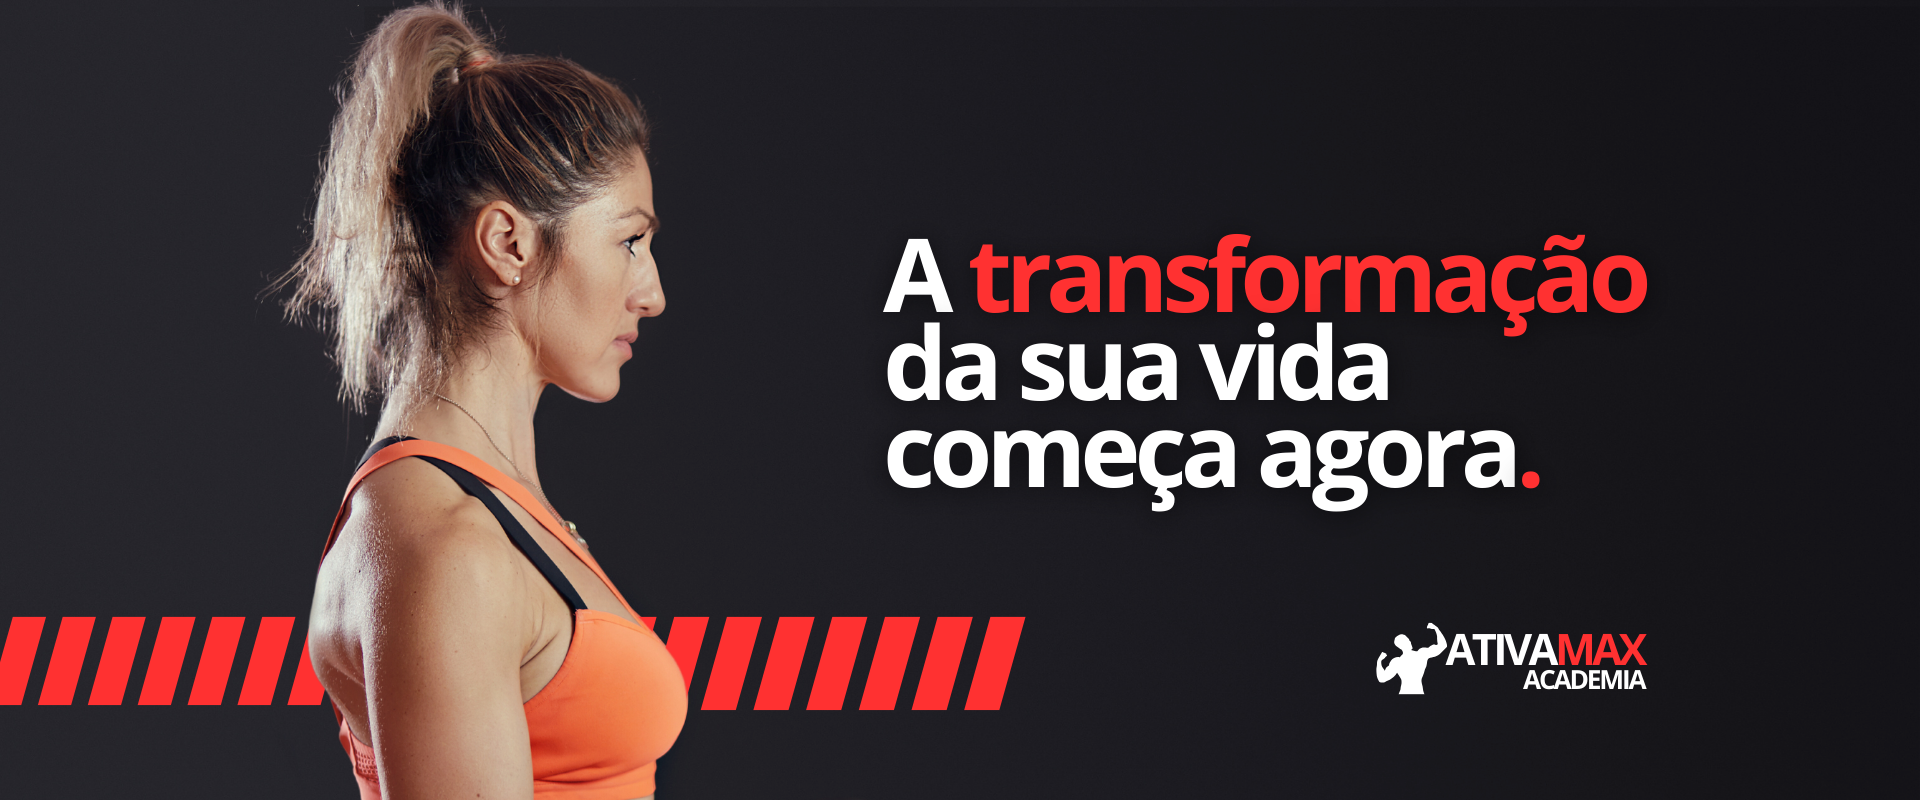
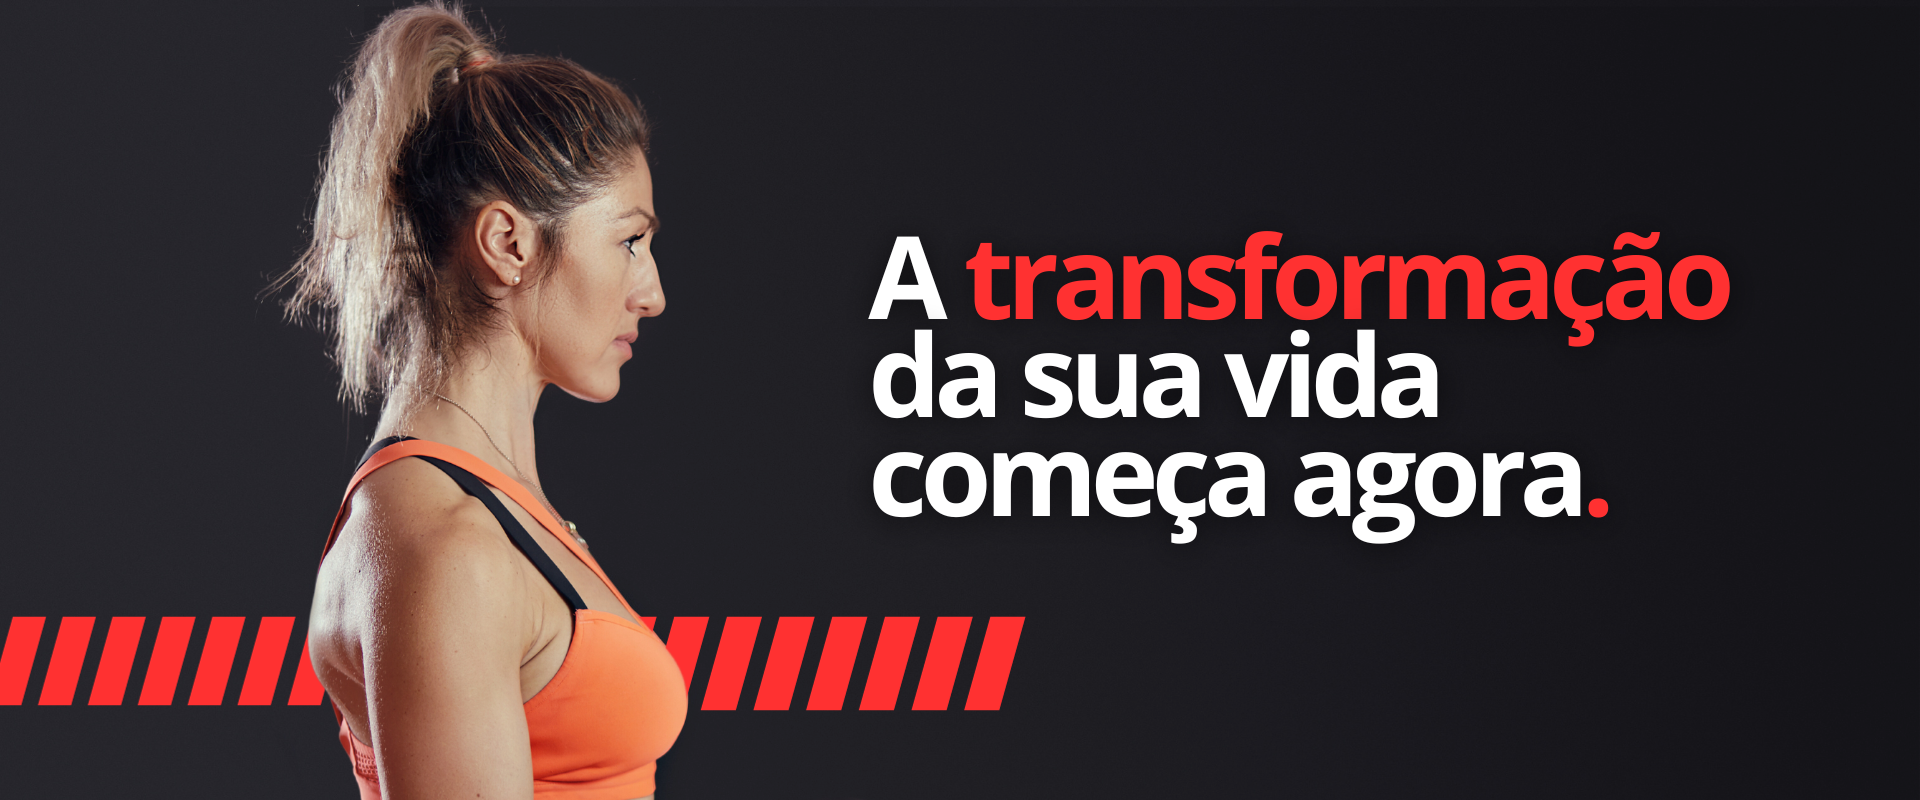
header finalizado

Changed region(s): [[0.4375, 0.2812, 0.9062, 0.6875], [0.7188, 0.7812, 0.875, 0.875]]

diff --git a/assets/css/style.css b/assets/css/style.css
@@ -17,23 +17,14 @@ body {
 
 /* Header */
 
-.back-header img{
-    position: absolute;
-    top: 0;
-    left: 0;
-    z-index: -1;
-    width: 100%;
-    height: 100vh;
-    object-fit: cover;
-}
-
 header {
+    position: fixed;
     display: flex;
     justify-content: center;
     width: 100vw;
-    height: 80px;
+    height: 70px;
     background-color: rgba(0, 0, 0, 0.3);
-    backdrop-filter: blur(5px);
+    backdrop-filter: blur(8px);
 }
 
 .container-header {
@@ -97,5 +88,45 @@ header {
 }
 
 /* Main */
+.banner {
+    display: flex;
+    justify-content: center;
+    width: 100vw;
+    background-image: linear-gradient(90deg, #26252bf1, #141418, #141418);
+}
 
+.banner img {
+    width: 100vw;
+    height: 100vh;
+    object-fit: cover;
+    max-height: 740px;
+    max-width: 1800px;
+}
+
+.container {
+    margin: auto;
+    width: 800px;
+}
+
+.titulo-atividades {
+    display: flex;
+    position: relative;
+    justify-content: center;
+    padding: 80px 0;
+}
+
+.titulo-atividades h2 {
+    font-size: 2rem;
+    text-transform: uppercase;
+}
+
+.titulo-atividades h2:nth-last-child(2) {
+    position: absolute;
+    font-weight: bold;
+    font-size: 5rem;
+    color: #ff0000;
+    opacity: 0.3;
+    z-index: -1;
+    top: 43px;
+}
 

diff --git a/index.html b/index.html
@@ -9,13 +9,10 @@
     <script src="assets/js/main.js" defer></script>
 </head>
 <body>
-    <div class="back-header">
-        <img src="assets/images/banner-desktop-1.png" alt="">
-    </div>
     <header>
         <div class="container-header">
             <div class="logo">
-                <img src="assets/images/logo.png" alt="Logo academia AtivaMax">
+                <a href="#"><img src="assets/images/logo.png" alt="Logo academia AtivaMax"></a>
             </div>
             <div class="nav-header">
                 <nav>
@@ -35,10 +32,18 @@
         </div>
     </header>
     <main>
-        
+        <section class="banner">
+                <img src="assets/images/banner-desktop-1.png" alt=""> 
+        </section>
+        <section class="container atividades">
+            <div class="titulo-atividades">
+                <h2>atividades</h2>
+                <h2>atividades</h2>
+            </div>
+        </section>
     </main>
     <footer>
-
+       
     </footer>
 </body>
 </html>
